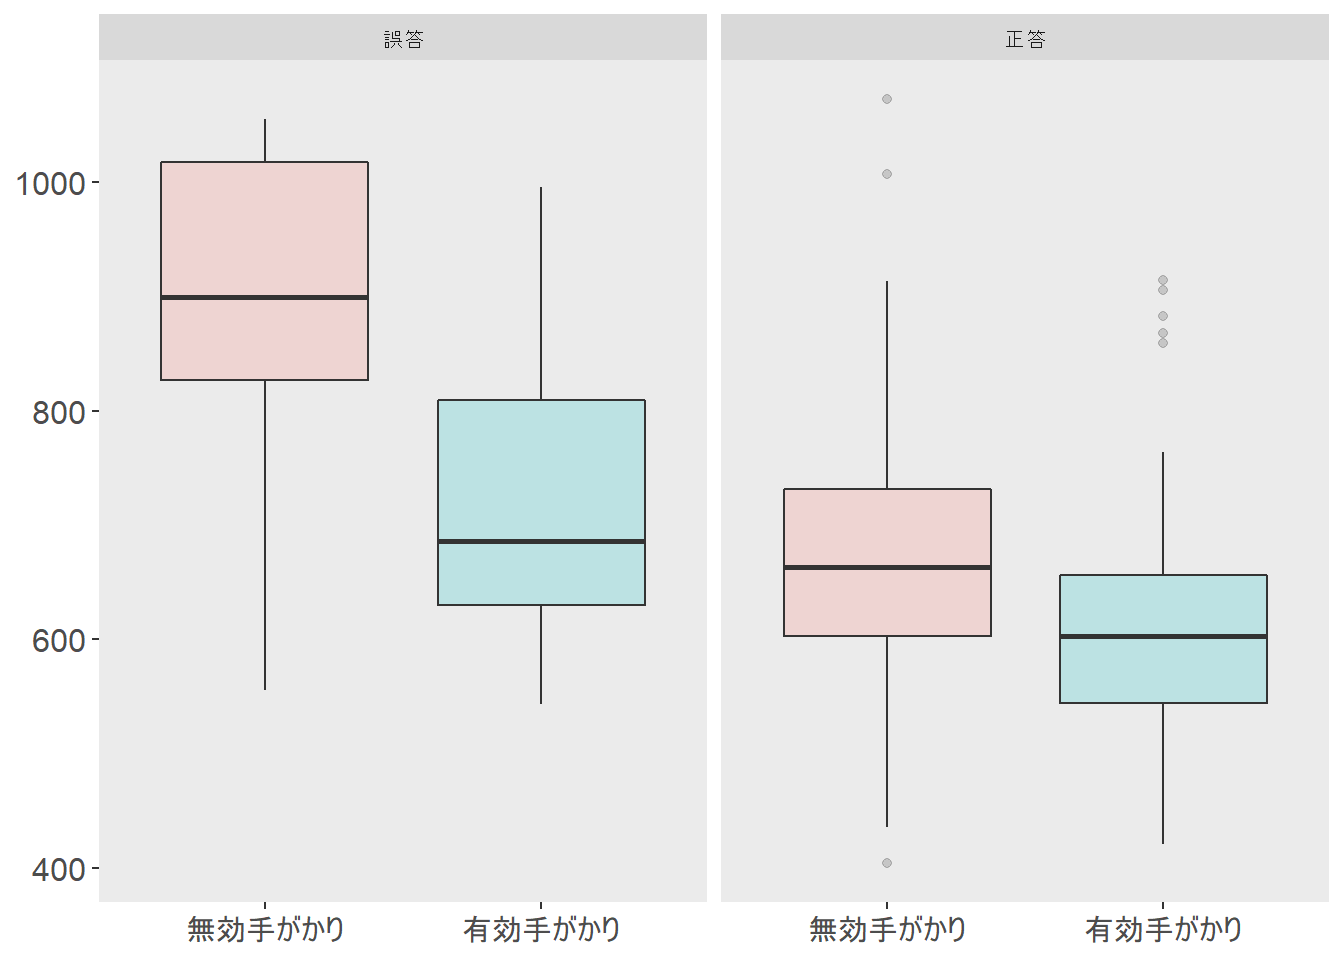
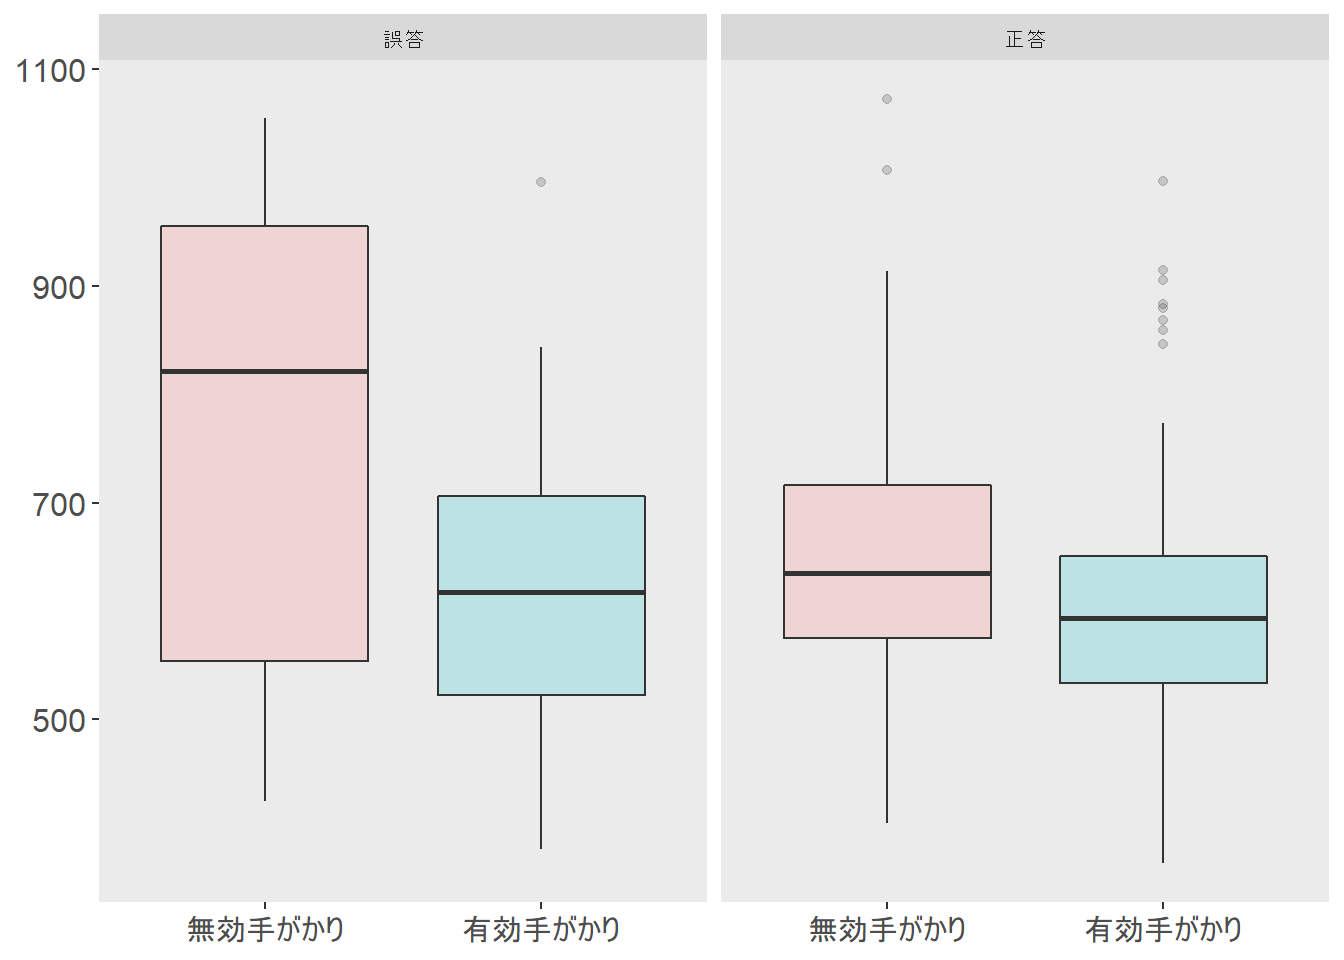
#

diff --git a/docs/post/2019-12-16-stan-diffusion/index.html b/docs/post/2019-12-16-stan-diffusion/index.html
@@ -294,25 +294,25 @@ model {
 <pre class="r"><code>str(dat)</code></pre>
 <pre><code>## List of 2
 ##  $ dataList   :List of 16
-##   ..$ N          : int 2
-##   ..$ N_Re_Te_max: int 37
+##   ..$ N          : int 3
+##   ..$ N_Re_Te_max: int 39
 ##   ..$ N_Rf_Te_max: int 3
 ##   ..$ N_Re_Tf_max: int 3
 ##   ..$ N_Rf_Tf_max: int 40
-##   ..$ N_Re_Te    : int [1:2, 1:2] 12 37 11 37
-##   ..$ N_Rf_Te    : int [1:2, 1:2] 0 3 1 3
-##   ..$ N_Re_Tf    : int [1:2, 1:2] 3 0 0 2
-##   ..$ N_Rf_Tf    : int [1:2, 1:2] 9 40 12 38
-##   ..$ RT_Re_Te   : num [1:2, 1:2, 1:37] 0.436 0.578 0.627 0.658 1.073 ...
-##   ..$ RT_Rf_Te   : num [1:2, 1:2, 1:3] -1 0.821 0.706 0.996 -1 ...
-##   ..$ RT_Re_Tf   : num [1:2, 1:2, 1:3] 1.039 -1 -1 0.844 0.956 ...
-##   ..$ RT_Rf_Tf   : num [1:2, 1:2, 1:40] 1.007 0.601 0.558 0.651 0.914 ...
-##   ..$ minRT      : num [1:2(1d)] 0.436 0.404
+##   ..$ N_Re_Te    : int [1:3, 1:2] 12 37 37 11 37 39
+##   ..$ N_Rf_Te    : int [1:3, 1:2] 0 3 3 1 3 1
+##   ..$ N_Re_Tf    : int [1:3, 1:2] 3 0 0 0 2 2
+##   ..$ N_Rf_Tf    : int [1:3, 1:2] 9 40 40 12 38 38
+##   ..$ RT_Re_Te   : num [1:3, 1:2, 1:39] 0.436 0.578 0.477 0.627 0.658 ...
+##   ..$ RT_Rf_Te   : num [1:3, 1:2, 1:3] -1 0.821 0.424 0.706 0.996 ...
+##   ..$ RT_Re_Tf   : num [1:3, 1:2, 1:3] 1.039 -1 -1 -1 0.844 ...
+##   ..$ RT_Rf_Tf   : num [1:3, 1:2, 1:40] 1.007 0.601 0.505 0.558 0.651 ...
+##   ..$ minRT      : num [1:3(1d)] 0.436 0.404 0.367
 ##   ..$ RTbound    : num 0.05
 ##   ..$ C          : num 2
 ##  $ genInitList:function ()  
 ##   ..- attr(*, &quot;srcref&quot;)= &#39;srcref&#39; int [1:8] 105 18 113 3 18 3 105 113
-##   .. ..- attr(*, &quot;srcfile&quot;)=Classes &#39;srcfilecopy&#39;, &#39;srcfile&#39; &lt;environment: 0x000000001ec82280&gt;</code></pre>
+##   .. ..- attr(*, &quot;srcfile&quot;)=Classes &#39;srcfilecopy&#39;, &#39;srcfile&#39; &lt;environment: 0x000000001ec81968&gt;</code></pre>
 <p>こういう形に整形できたら、データの準備は完了です。</p>
 </div>
 <div id="mcmc" class="section level2">
